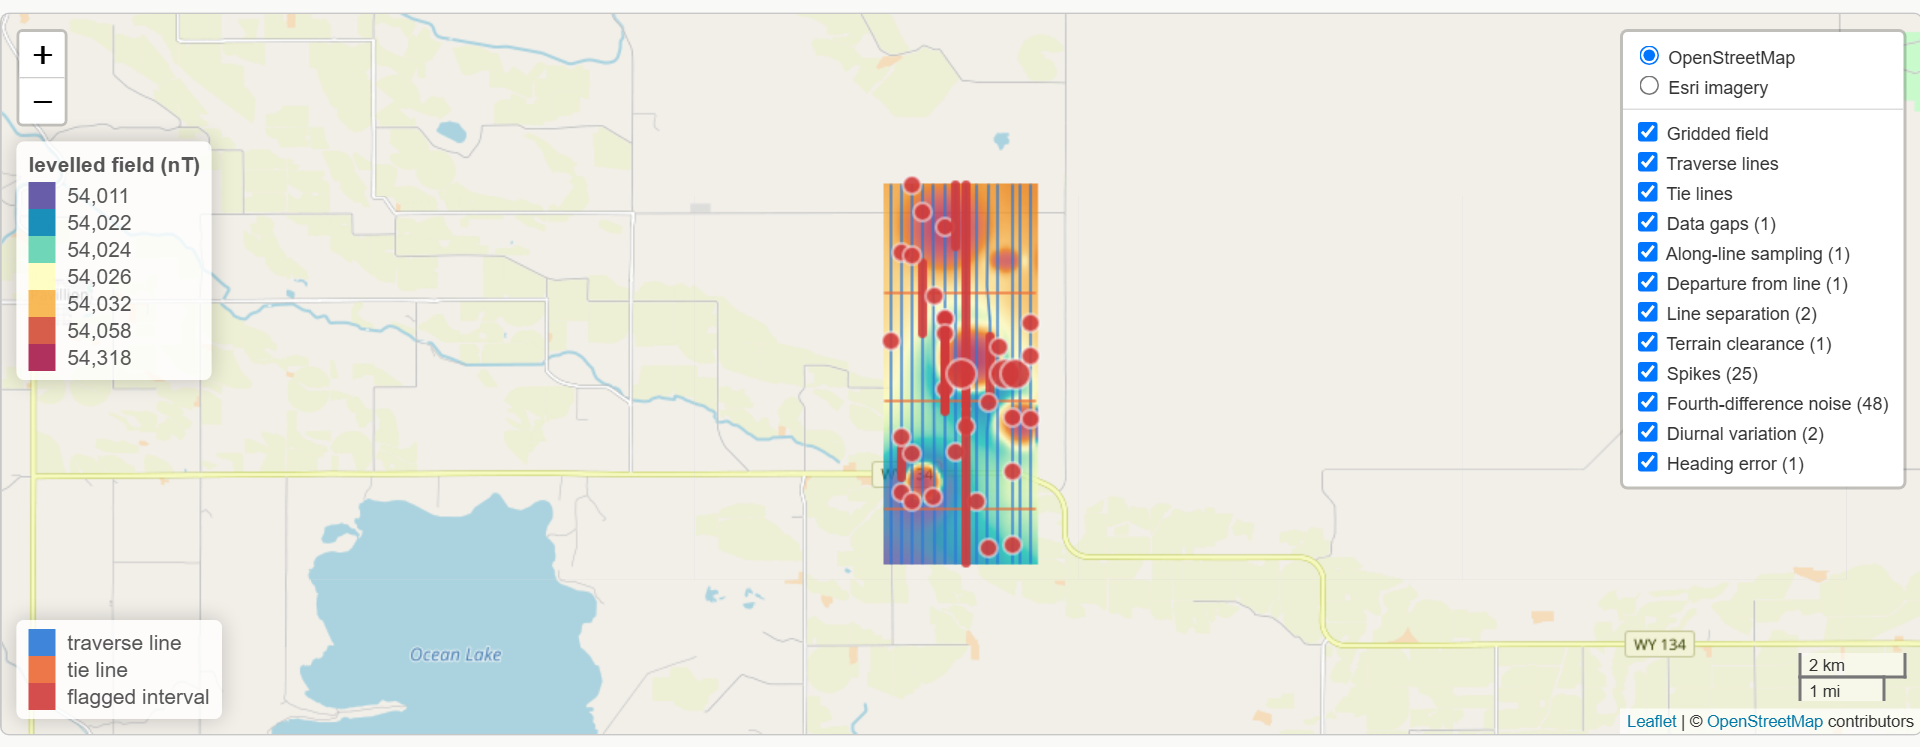
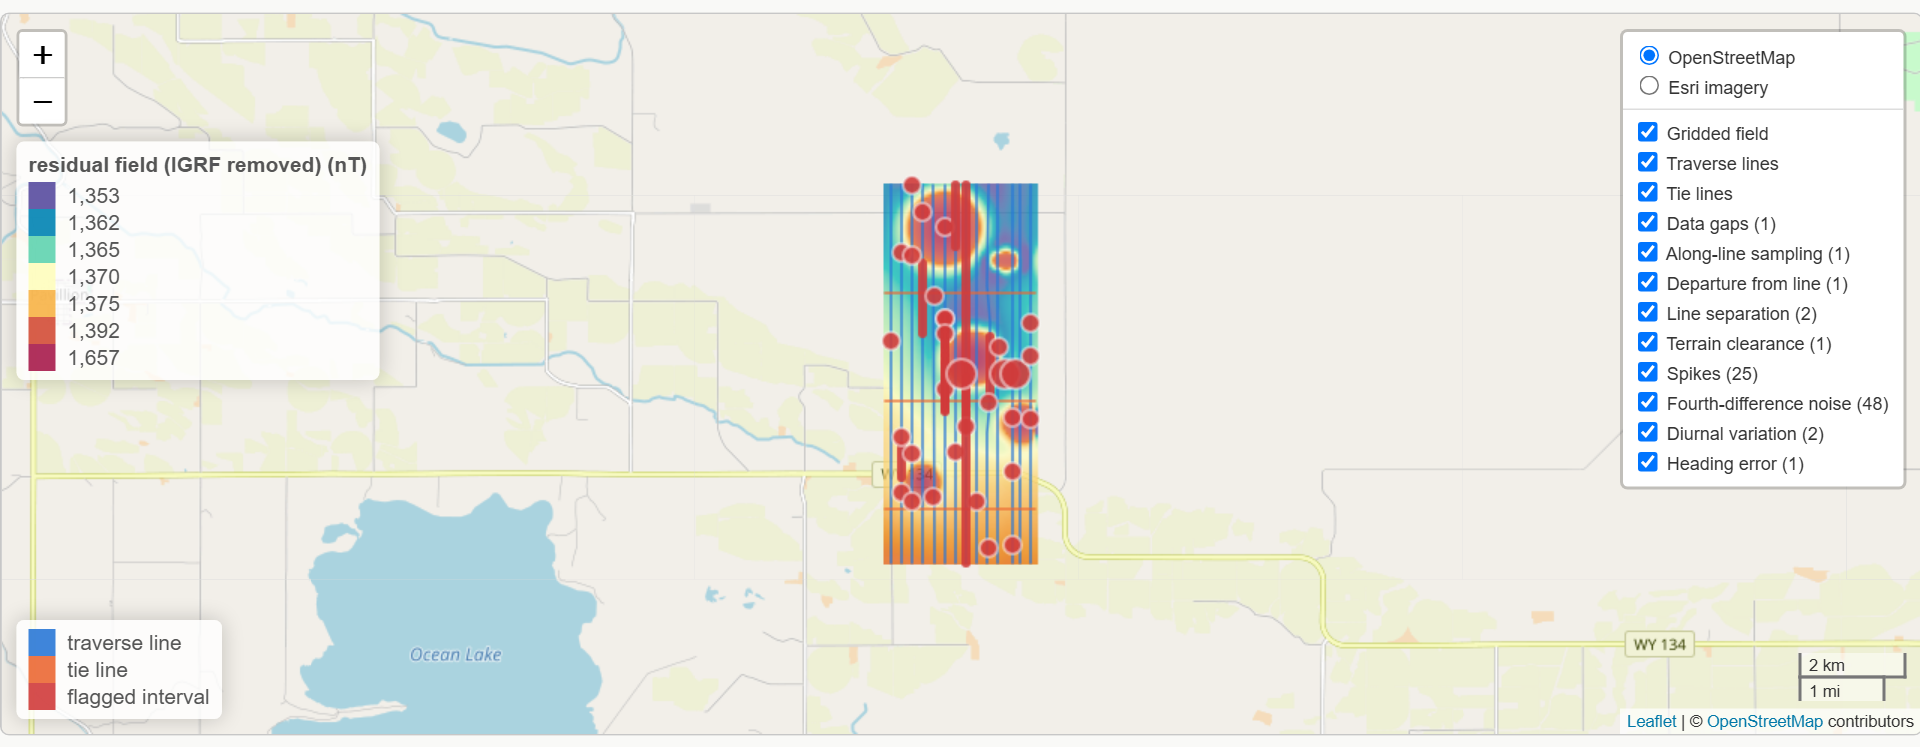
IGRF removal: main field at every sample, residual channel, residual grid
igrf_field() evaluates the IGRF (igrf package) on a 5 x 5 lon/lat lattice
over the block at the survey epoch and altitude and interpolates F, I and
D to each sample - the main field is smooth enough over a survey block
that the lattice matches direct evaluation to < 0.1 nT at a fraction of
the cost. run_qc(igrf = TRUE) adds mag_igrf and mag_res (levelled field
minus IGRF; GPS height above the spheroid when the survey carries it,
terrain clearance otherwise) and records model, epoch, altitude and
F/I/D at the block centre in result$igrf. The residual is what gets
gridded and mapped; legends and panels are labelled by channel. Skipped
silently without longitude/latitude.

README section; report specification row; 359 expectations.

Changed region(s): [[0.4375, 0.2463, 0.5625, 0.7697], [0.0, 0.1847, 0.2188, 0.5234], [0.1875, 0.4311, 0.2188, 0.4618]]

diff --git a/README.md b/README.md
@@ -116,6 +116,22 @@ it; a crossing that survives the correction is flagged, because heading
 error, lag or a bad tie do not level out. The noise checks and the
 heading-error check keep operating on the unlevelled field.
 
+## IGRF removal
+
+```r
+res$igrf
+#> $model "igrf 1.0"  $epoch 2024.45  $altitude 60  $F 52642  $I 68.1  $D 9.8
+igrf_field(-108.5, 43.2, as.POSIXct("2024-06-14", tz = "UTC"), altitude = 1600)
+```
+
+`run_qc()` evaluates the IGRF main field (the `igrf` package) on a small
+lattice over the block at the survey epoch and altitude, interpolates it
+to every sample, and adds `mag_igrf` and the residual `mag_res` (levelled
+field minus IGRF). The residual is what gets gridded and mapped, and its
+inclination and declination are what reduction to the pole needs. The
+simulated survey's regional is synthetic, so its residual carries a
+constant offset - the map shows the anomalies either way.
+
 ## Gridded field
 
 ```r
@@ -127,7 +143,8 @@ g <- grid_field(res, cell = 25, method = "idw")   # or grid any channel yourself
 plot_grid(res)
 ```
 
-`run_qc()` grids the levelled field by **minimum curvature** (Briggs 1974)
+`run_qc()` grids the residual field (or the levelled field when there is no
+IGRF) by **minimum curvature** (Briggs 1974)
 at a quarter of the traverse spacing: samples are binned to the nearest
 node as a local plane evaluated at the node (a plain mean sits at the
 sample centroid, half a cell off at line ends), free nodes satisfy the
@@ -255,10 +272,10 @@ report render.
 ## Not yet
 
 - statistical levelling and micro-levelling (tie-line levelling is in)
-- IGRF removal and lag correction (the field is handled as total field; no
-  residual/anomaly channel yet)
-- reduction to the pole (the grid is in; needs IGRF inclination and
-  declination) and other grid filters (upward continuation, derivatives)
+- lag correction
+- reduction to the pole (the residual grid and the IGRF inclination and
+  declination are in; the FFT filter is not) and other grid filters
+  (upward continuation, derivatives)
 - reading a flight plan from KML / Geosoft PLT
 - gradiometer and multi-sensor configurations
 
